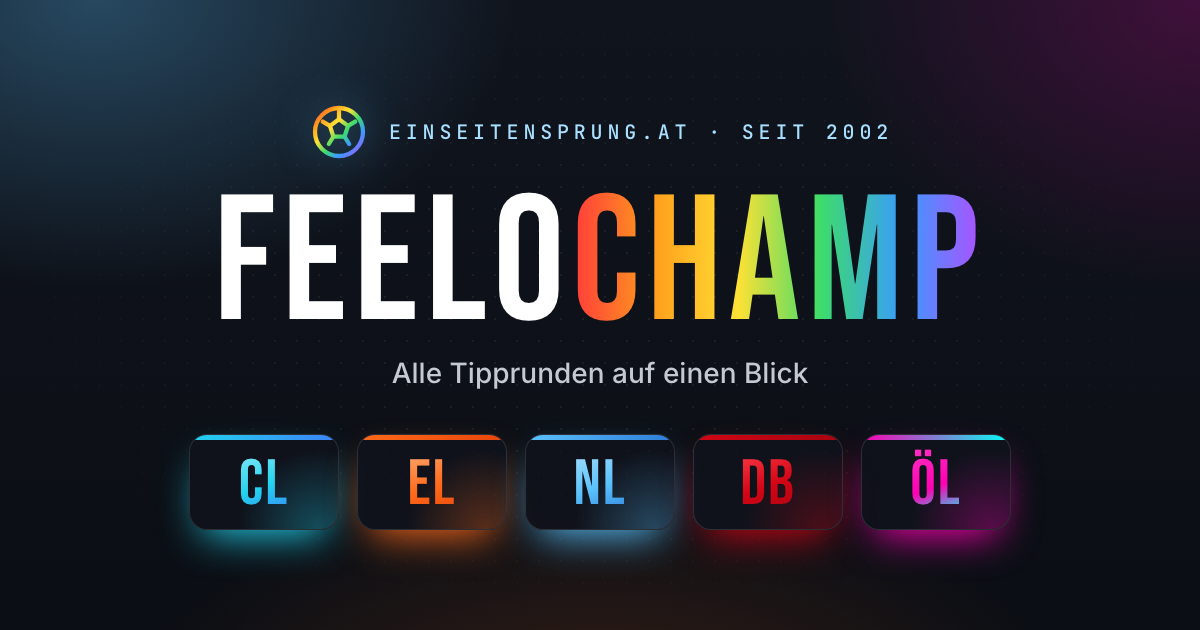
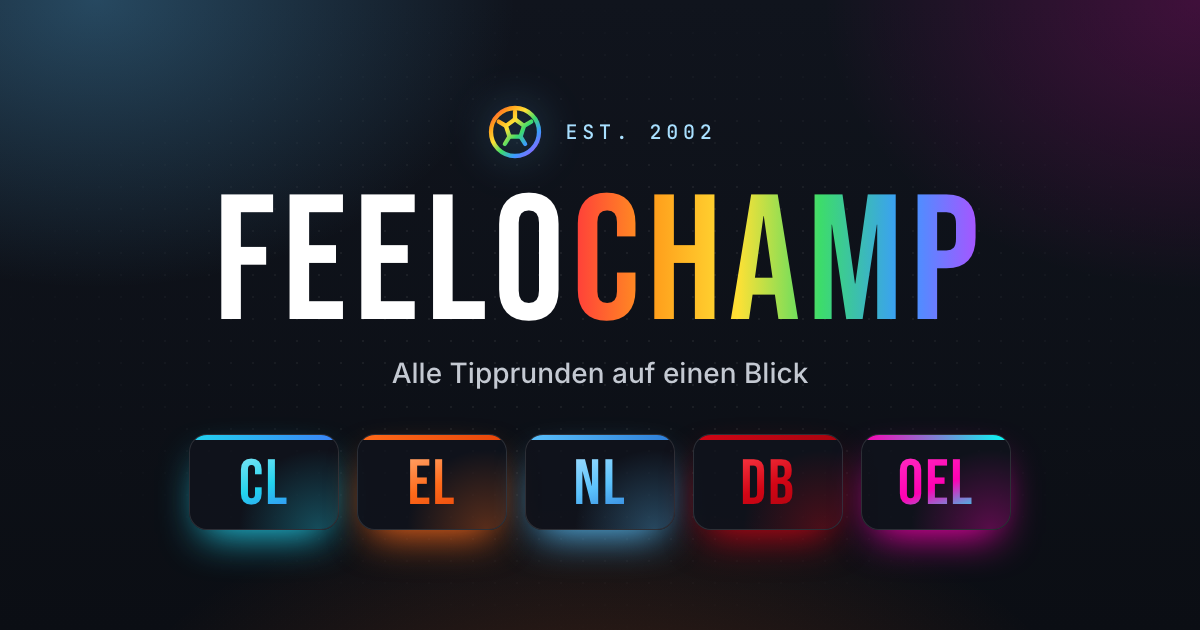
og-jump: OEL statt ÖL, Claim "est. 2002" statt einseitensprung.at · seit 2002

diff --git a/jump.html b/jump.html
@@ -16,7 +16,7 @@
 <meta property="og:image:type" content="image/png">
 <meta property="og:image:width" content="1200">
 <meta property="og:image:height" content="630">
-<meta property="og:image:alt" content="Feelochamp – Tipprunden CL, EL, NL, DB und ÖL">
+<meta property="og:image:alt" content="Feelochamp – Tipprunden CL, EL, NL, DB und OEL">
 <meta name="twitter:card" content="summary_large_image">
 <meta name="twitter:title" content="Feelochamp &ndash; Tipprunden">
 <meta name="twitter:image" content="assets/og-jump.png">
